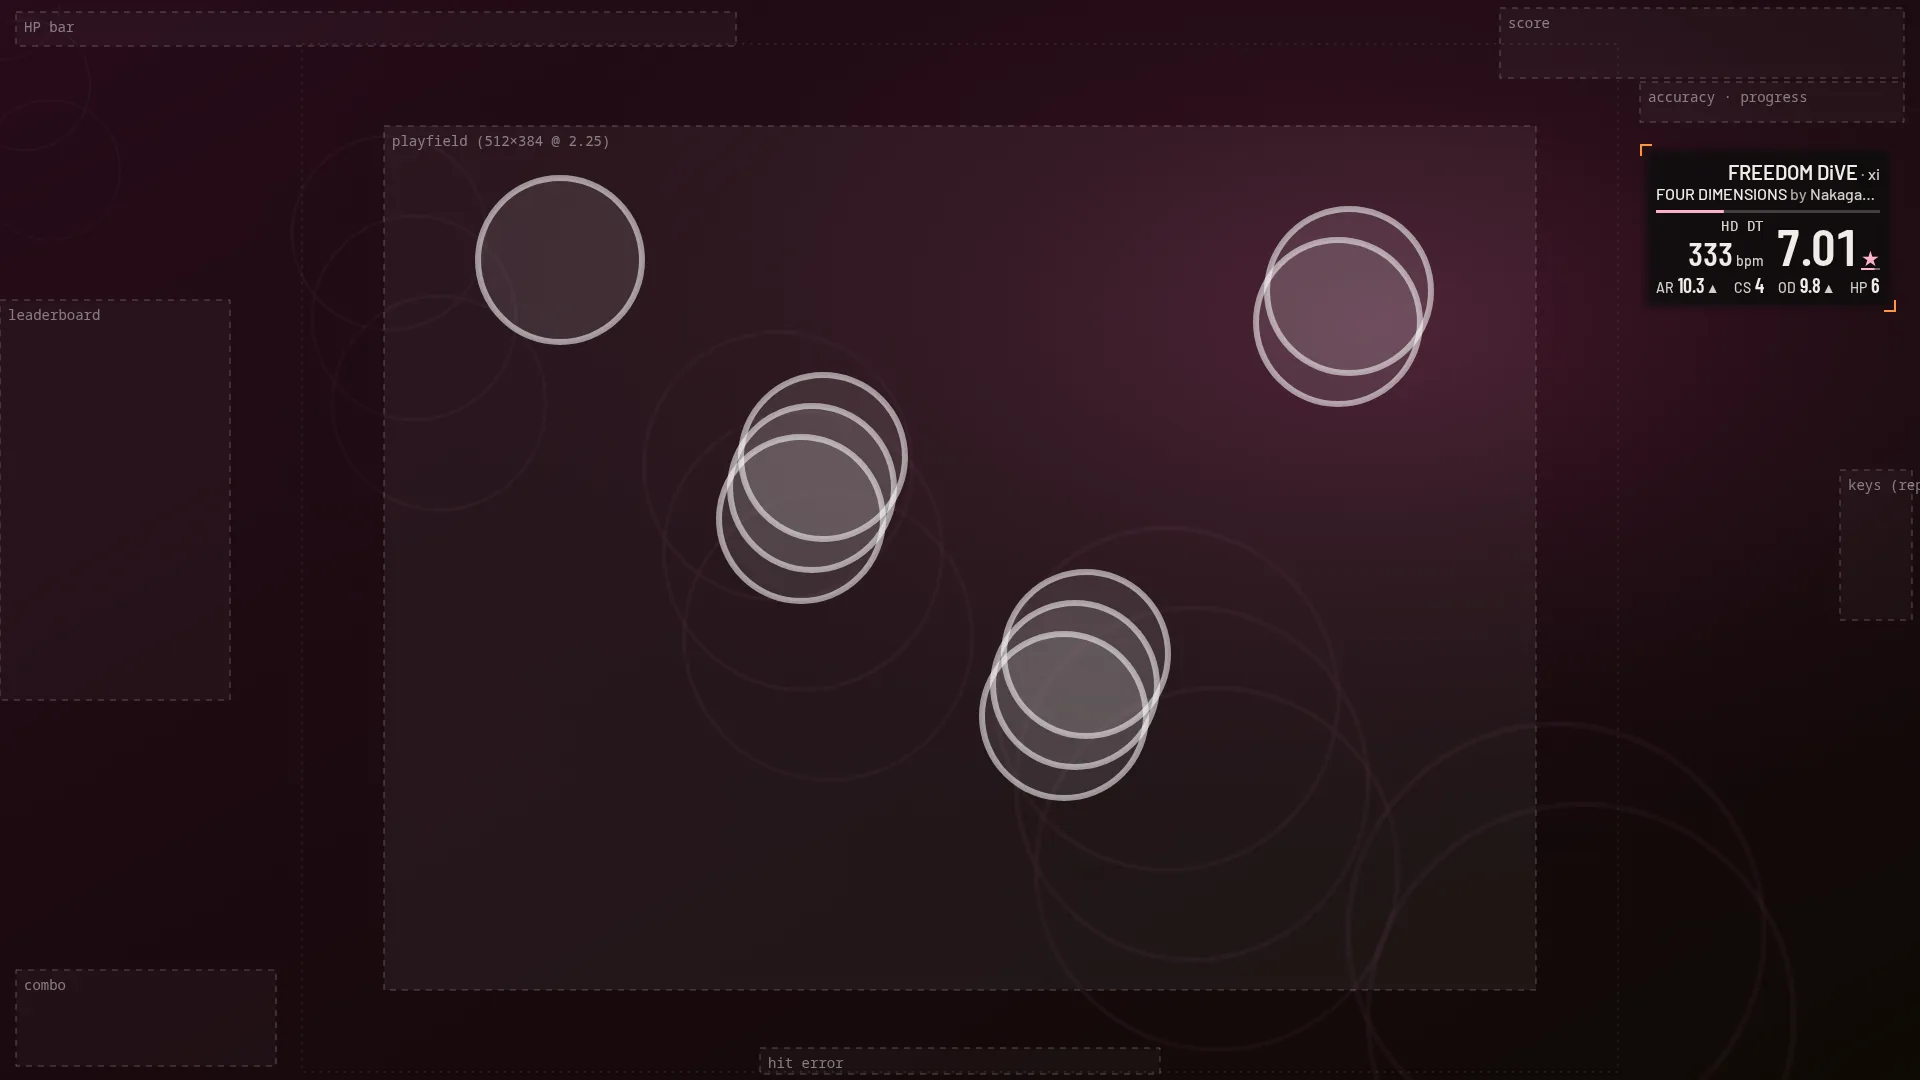
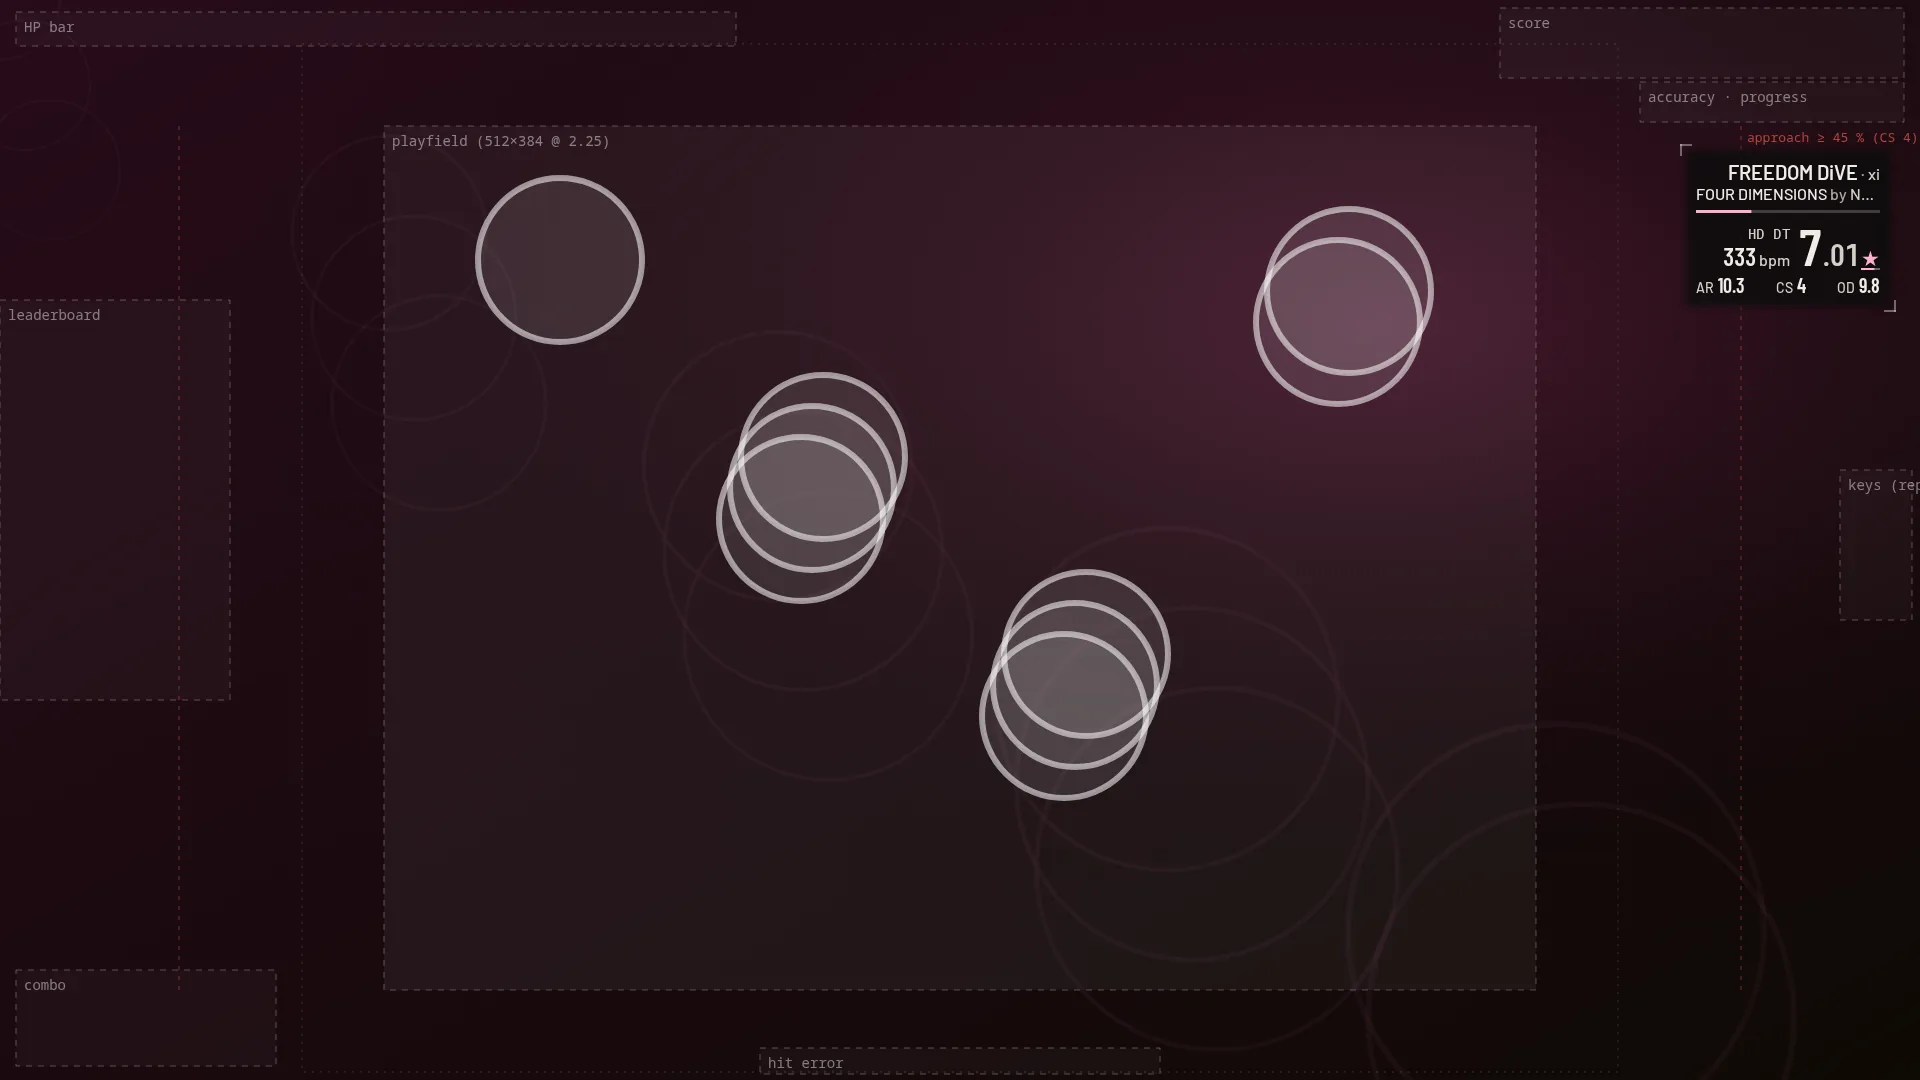
fix(now-playing): 216 px column at full size — HP dropped there, star decimals as fraction, mod arrows removed
The AR/CS/OD/HP values already show the mod-adjusted numbers and the mods sit beside the BPM, so the ▲/▼ markers (38 px) go everywhere; the /original pointers and isConvert are no longer subscribed. Passes the marks setting through to the kit.

Changed region(s): [[0.8438, 0.1222, 0.9688, 0.275]]

diff --git a/overlays/now-playing/overlay.js b/overlays/now-playing/overlay.js
@@ -8,18 +8,21 @@ import {
   createMapClock, applyKitSettings, MOTION_MS, DASH,
 } from './vosu-overlay.js';
 
-// Default boxes of the two arrangements (metadata.txt placements); --u is 1 at these.
-const BASE = { vertical: [256, 192], horizontal: [520, 104] };
+// Default boxes of the two arrangements (metadata.txt placements); --u is 1 at these. The column
+// is laid out for the osu!/catch side column (216 wide); mania's 256 × 192 box is also --u 1.
+const BASE = { vertical: [216, 192], horizontal: [520, 104] };
+// Below this content width (CSS px at --u 1) four settings at the kit's sizes no longer fit.
+const NARROW = 240;
 const WIDE = 2.2; // auto orientation: boxes at least this many times wider than tall get the strip
 
 const P = {
   state: '/state/number', playMode: '/play/mode/number', settingsMode: '/settings/mode/number',
   title: '/beatmap/title', titleUnicode: '/beatmap/titleUnicode', artist: '/beatmap/artist', artistUnicode: '/beatmap/artistUnicode',
-  version: '/beatmap/version', mapper: '/beatmap/mapper', checksum: '/beatmap/checksum', isConvert: '/beatmap/isConvert',
+  version: '/beatmap/version', mapper: '/beatmap/mapper', checksum: '/beatmap/checksum',
   first: '/beatmap/time/firstObject', last: '/beatmap/time/lastObject', mp3: '/beatmap/time/mp3Length', clockRate: '/beatmap/time/rate',
   starsLive: '/beatmap/stats/stars/live', starsTotal: '/beatmap/stats/stars/total',
-  arO: '/beatmap/stats/ar/original', arC: '/beatmap/stats/ar/converted', csO: '/beatmap/stats/cs/original', csC: '/beatmap/stats/cs/converted',
-  odO: '/beatmap/stats/od/original', odC: '/beatmap/stats/od/converted', hpO: '/beatmap/stats/hp/original', hpC: '/beatmap/stats/hp/converted',
+  arC: '/beatmap/stats/ar/converted', csC: '/beatmap/stats/cs/converted',
+  odC: '/beatmap/stats/od/converted', hpC: '/beatmap/stats/hp/converted',
   bpmLive: '/beatmap/stats/bpm/realtime', bpmCommon: '/beatmap/stats/bpm/common',
   mods: '/play/mods/array', modsRate: '/play/mods/rate',
 };
@@ -31,8 +34,10 @@ const EASE_OUT = 'cubic-bezier(0.16, 1, 0.3, 1)'; // --ease-out
 
 // Difficulty settings that mean something while playing each ruleset: taiko has no approach rate
 // or circle size, catch has no timing windows, and a mania player is looking at the key count.
+// The narrow column (osu!/catch side column) drops HP, the least telling, rather than shrink type.
 const KEYS = ['ar', 'cs', 'od', 'hp'];
 const CELLS = { osu: ['ar', 'cs', 'od', 'hp'], taiko: ['od', 'hp'], fruits: ['ar', 'cs', 'hp'], mania: ['od', 'hp'] };
+const CELLS_NARROW = { osu: ['ar', 'cs', 'od'], taiko: ['od', 'hp'], fruits: ['ar', 'cs'], mania: ['od', 'hp'] };
 // align = auto follows the placements: osu!/catch hug the right screen edge; taiko's strip reads
 // from the left (right of the mascot), mania sits in the top-left corner.
 const AUTO_ALIGN = { osu: 'end', fruits: 'end', taiko: 'start', mania: 'start' };
@@ -40,8 +45,6 @@ const AUTO_ALIGN = { osu: 'end', fruits: 'end', taiko: 'start', mania: 'start' }
 const MOD_RATE = { DT: 1.5, NC: 1.5, HT: 0.75, DC: 0.75 };
 // "Song (TV Size)", "Song [Extended]", "Song -Remix-": the suffix moves to the artist line.
 const SUFFIX = /^(.*?\S)\s+((?:[([（［【].*|-[^-]+-))$/u;
-const UP = '\u25b2';
-const DOWN = '\u25bc';
 
 const $ = id => document.getElementById(id);
 const root = document.documentElement;
@@ -80,7 +83,7 @@ function attr(el, name, value) {
 
 const cells = {};
 for (const el of document.querySelectorAll('.cell')) {
-  cells[el.dataset.k] = { el, to: el.querySelector('.to'), adj: el.querySelector('.adj'), shownTo: '', shownAdj: '', format: numberFormatter('stat') };
+  cells[el.dataset.k] = { el, v: el.querySelector('.v'), shown: '', format: numberFormatter('stat') };
 }
 const starsText = numberFormatter('stars');
 const bpmText = numberFormatter('bpm');
@@ -88,7 +91,7 @@ const bpmText = numberFormatter('bpm');
 // ------------------------------------------------------------------ state
 let opts = {
   layout: 'full', orientation: 'auto', align: 'auto', unicode: false, showStats: true, showProgress: true,
-  motion: 'full', backing: 'scrim', mapTint: true,
+  motion: 'full', backing: 'scrim', mapTint: true, marks: 'neutral',
 };
 let motion = 'full';
 let values = {};
@@ -110,7 +113,8 @@ const live = { t: null };
 const kiai = { on: false, moving: false, ticks: 0, seen: 0, timer: 0, shown: false };
 const STILL_MS = 250;
 let shownChecksum;
-let shownMode;
+let narrow = false; // the column is narrower than four settings need (osu!/catch side column)
+let shownCells = null;
 let paletteFor = '';
 let pickedTitle = null;
 let mergeFor = '';
@@ -199,6 +203,10 @@ function layoutBox() {
   attr(np, 'data-orient', orient);
   const u = Math.round(Math.min(Math.max(Math.min(w / bw, h / bh), 0.5), 4) * 1000) / 1000;
   root.style.setProperty('--u', String(u));
+  narrow = orient === 'vertical' && w / u < NARROW;
+  attr(np, 'data-narrow', narrow ? '' : null);
+  shownCells = null;
+  dirty = true;
   const steps = Math.max(200, Math.round(w * 2));
   if (steps !== barSteps) {
     barSteps = steps;
@@ -263,7 +271,7 @@ function renderAll() {
     shownBpm = null; // a new map's BPM arrives without the nudge
   }
   renderMods();
-  renderStats(mode, mode !== 'osu' && values[P.isConvert] === true);
+  renderStats(mode);
   renderLive();
   clock.sample(live.t, values[P.clockRate], values[P.first], values[P.last], values[P.mp3], 0);
   buildTable(); // the span may have moved
@@ -335,11 +343,11 @@ function renderMods() {
   text('mods', label);
 }
 
-function renderStats(mode, convert) {
+function renderStats(mode) {
   const { parsed } = ctx;
-  if (mode !== shownMode) {
-    shownMode = mode;
-    const visible = CELLS[mode] || CELLS.osu;
+  const visible = (narrow ? CELLS_NARROW : CELLS)[mode] || (narrow ? CELLS_NARROW : CELLS).osu;
+  if (visible !== shownCells) {
+    shownCells = visible;
     for (const k of KEYS) cells[k].el.hidden = !visible.includes(k);
     statsEl.dataset.n = String(visible.length);
   }
@@ -347,15 +355,9 @@ function renderStats(mode, convert) {
     const k = KEYS[i];
     const cell = cells[k];
     if (cell.el.hidden) continue;
-    // 0 is a real AR/CS/OD/HP, so only an unparsed map makes these unknown.
-    const original = parsed ? known(values[P[`${k}O`]]) : NaN;
-    const converted = parsed ? known(values[P[`${k}C`]]) : NaN;
-    // A convert's original values belong to the osu! map, not to this ruleset.
-    const changedBy = !convert && isKnown(original) && isKnown(converted) && Math.abs(converted - original) >= 0.05;
-    const to = cell.format(converted);
-    const adj = changedBy ? (converted > original ? UP : DOWN) : '';
-    if (to !== cell.shownTo) { cell.shownTo = to; write(cell.to, to); }
-    if (adj !== cell.shownAdj) { cell.shownAdj = adj; write(cell.adj, adj); }
+    // The mod-adjusted value; 0 is a real AR/CS/OD/HP, so only an unparsed map makes it unknown.
+    const to = cell.format(parsed ? known(values[P[`${k}C`]]) : NaN);
+    if (to !== cell.shown) { cell.shown = to; write(cell.v, to); }
   }
 }
 
@@ -363,7 +365,15 @@ function renderStats(mode, convert) {
 function renderLive() {
   if (!ctx.show) return;
   const total = ctx.parsed ? known(values[P.starsTotal], true) : NaN;
-  text('stars', starsText(total));
+  // The hero's decimals are a .kit-frac (7.01 → "7" + ".01"), as the set's heroes do; split only
+  // when the shown rating changes.
+  const stars = starsText(total);
+  if (stars !== shown.stars) {
+    shown.stars = stars;
+    const dot = stars.indexOf('.');
+    text('starsInt', dot < 0 ? stars : stars.slice(0, dot));
+    text('starsFrac', dot < 0 ? '' : stars.slice(dot));
+  }
   const liveStars = ctx.parsed ? known(values[P.starsLive], true) : NaN;
   let step = -1;
   if (isKnown(total) && isKnown(liveStars)) step = Math.round(Math.min(1, liveStars / total) * STRAIN_STEPS);

diff --git a/overlays/now-playing/style.css b/overlays/now-playing/style.css
@@ -71,9 +71,6 @@ p, h1, dl, dd { margin: 0; }
 .stats { grid-area: stats; display: flex; column-gap: var(--s-4); min-width: 0; }
 .cell { display: flex; align-items: baseline; gap: var(--s-1); }
 .cell .v { display: flex; align-items: baseline; font: 600 calc(var(--u) * 20px)/1 var(--font-display); color: var(--text-1); white-space: nowrap; }
-/* Raised or lowered by mods: a small arrow after the effective value (no colour: not a judgement). */
-.cell .adj { font: 500 calc(var(--u) * 14px)/1 var(--font-body); color: var(--text-2); margin-left: .04em; }
-.cell .adj:empty { display: none; }
 
 /* ------------------------------------------------------------------ column (tall boxes) */
 #np[data-orient="vertical"] .body { grid-template-areas: "ident" "prog" "nums"; row-gap: calc(var(--u) * 6px); }
@@ -82,8 +79,12 @@ p, h1, dl, dd { margin: 0; }
 #np[data-orient="vertical"] .nums { grid-area: nums; grid-template-columns: auto minmax(0, 1fr); grid-template-areas: "hero side" "stats stats"; column-gap: var(--s-3); row-gap: var(--s-1); }
 #np[data-orient="vertical"][data-align="end"] .nums { grid-template-columns: minmax(0, 1fr) auto; grid-template-areas: "side hero" "stats stats"; }
 #np[data-orient="vertical"][data-align="end"] .stats { justify-content: flex-end; }
-/* Four settings span the row; with every value mod-adjusted (HR DT) they need all of it. */
-#np[data-orient="vertical"] .stats[data-n="4"] { justify-content: space-between; column-gap: calc(var(--u) * 6px); }
+/* Three or four settings span the row (the 216 px side column shows three). */
+#np[data-orient="vertical"] .stats:is([data-n="3"], [data-n="4"]) { justify-content: space-between; column-gap: calc(var(--u) * 6px); }
+/* The 216 px side column: BPM at the value role's row size (24, never below 20) and a tighter gap,
+   so a 10★ rating and a three-digit BPM still share the row. */
+#np[data-narrow] .nums { column-gap: var(--s-2); }
+#np[data-narrow] .bpm { font-size: calc(var(--u) * 24px); }
 
 /* ------------------------------------------------------------------ strip (wide boxes)
    One reading line: title and credits, then the numbers (critique: no two islands). */

diff --git a/overlays/now-playing/index.html b/overlays/now-playing/index.html
@@ -18,16 +18,16 @@
     </div>
     <div class="prog" id="prog" aria-hidden="true"><div class="track"><i class="fill kit-ambient" id="bar"></i></div></div>
     <div class="nums">
-      <p class="hero kit-hero" aria-label="Star rating"><span data-f="stars">—</span><span class="kit-unit tight star">★<span class="strain" id="strain" hidden><i id="strainFill"></i></span></span></p>
+      <p class="hero kit-hero" aria-label="Star rating"><span data-f="starsInt">—</span><span class="kit-frac" data-f="starsFrac"></span><span class="kit-unit tight star">★<span class="strain" id="strain" hidden><i id="strainFill"></i></span></span></p>
       <div class="side">
         <p class="mods kit-code" data-f="mods"></p>
         <p class="bpm kit-value"><span id="bpmNum"><span data-f="bpm">—</span></span><span class="kit-unit">bpm</span></p>
       </div>
       <dl class="stats" id="stats">
-        <div class="cell" data-k="ar"><dt class="kit-label">AR</dt><dd class="v"><span class="to">—</span><span class="adj"></span></dd></div>
-        <div class="cell" data-k="cs"><dt class="kit-label">CS</dt><dd class="v"><span class="to">—</span><span class="adj"></span></dd></div>
-        <div class="cell" data-k="od"><dt class="kit-label">OD</dt><dd class="v"><span class="to">—</span><span class="adj"></span></dd></div>
-        <div class="cell" data-k="hp"><dt class="kit-label">HP</dt><dd class="v"><span class="to">—</span><span class="adj"></span></dd></div>
+        <div class="cell" data-k="ar"><dt class="kit-label">AR</dt><dd class="v">—</dd></div>
+        <div class="cell" data-k="cs"><dt class="kit-label">CS</dt><dd class="v">—</dd></div>
+        <div class="cell" data-k="od"><dt class="kit-label">OD</dt><dd class="v">—</dd></div>
+        <div class="cell" data-k="hp"><dt class="kit-label">HP</dt><dd class="v">—</dd></div>
       </dl>
     </div>
   </div>
